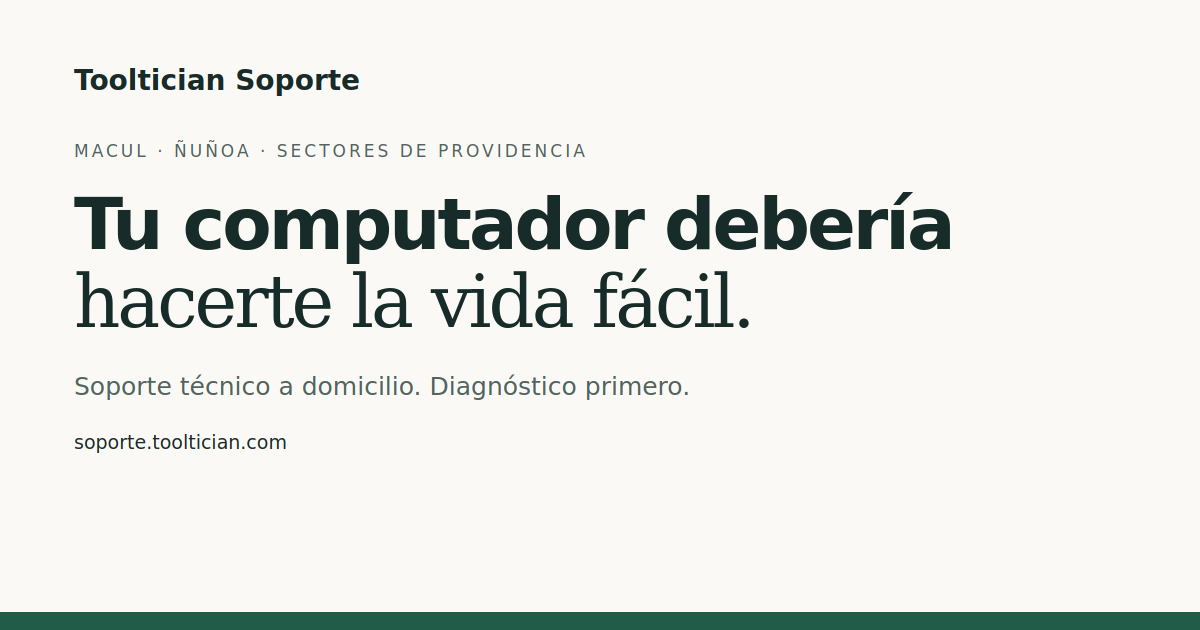
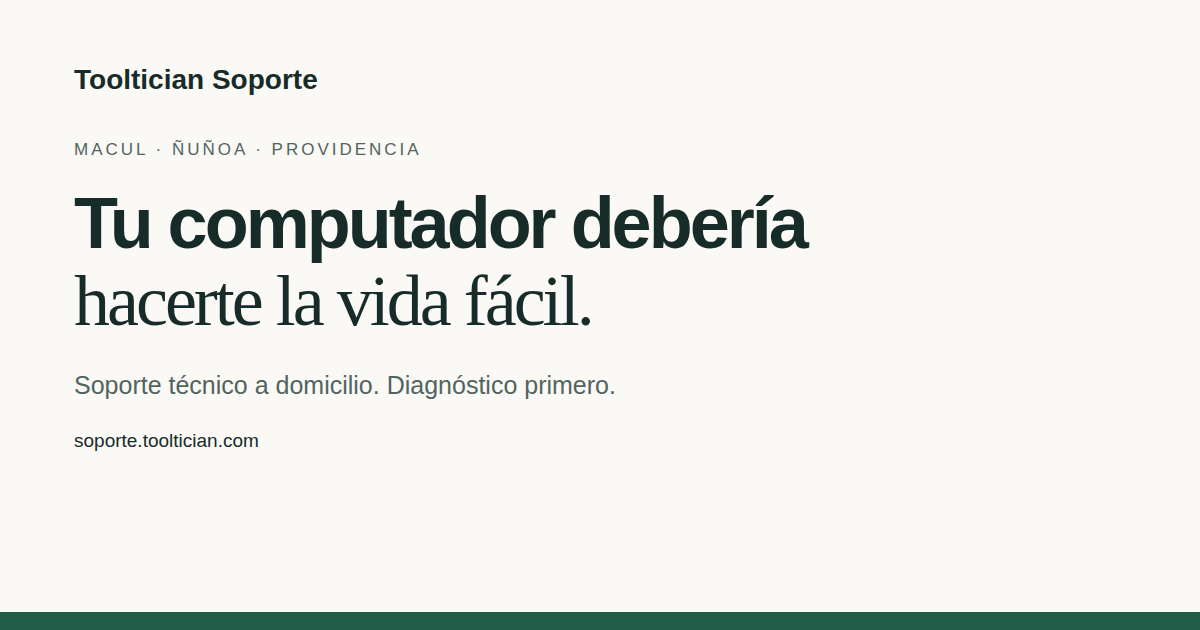
fix(support): address prelaunch quality findings
Triage of the Codacy analysis on PR #72. Of the 50 annotations GitHub
exposes, 31 (62%) are markdown prose-formatting notices and 0 are errors,
security or privacy findings. The real defects are fixed; the noise is
documented rather than churned.

Real defect, found by reading rather than by the linter: generate-og.mjs
rendered the share image as "NUNOA - SECTORES DE PROVIDENCIA". That image
ships as og:image on every page, and it contradicted the confirmed
coverage decision. config.ts has complete Providencia, unit.test.ts
asserts coverage is not sector-conditional, and dd1d1f6 deliberately
dropped the "sectors of Providencia" wording but never touched the script
or the PNG. Every social share advertised sector-limited coverage that
the live page does not offer. Text corrected and the image regenerated
(53,780 -> 46,829 bytes, still 1200x630).

Genuine hardening in analytics.ts: the gtag shim used a non-null
assertion on w.dataLayer to encode an invariant that was already
guaranteed one line above, and declared an unused rest parameter while
relying on arguments. It now holds a local reference and drops the dead
rest parameter. Semantics are unchanged; the release fixture asserts the
exact-once event counts and absence of PII in the queue, and still passes.

Style and latent-correctness cleanups: dataset dot notation and block
bodies for the two forEach callbacks in client.ts, template literals in
release-check.ts, and renaming the local `escape` helper, which shadowed
[…]

diff --git a/support/src/client.ts b/support/src/client.ts
@@ -15,17 +15,17 @@ let reference = "";
 let started = false;
 let completed = false;
 let clicked = false;
-document.querySelectorAll<HTMLAnchorElement>("[data-cta]").forEach((link) =>
+document.querySelectorAll<HTMLAnchorElement>("[data-cta]").forEach((link) => {
   link.addEventListener("click", () => {
-    const service = link.dataset["service"];
+    const service = link.dataset.service;
     const select = form?.elements.namedItem("service");
     if (service && select instanceof HTMLSelectElement) {
       select.value = service;
       if (result) result.hidden = true;
     }
-    track("support_cta_click", { location: link.dataset["cta"], service });
-  }),
-);
+    track("support_cta_click", { location: link.dataset.cta, service });
+  });
+});
 form?.addEventListener("focusin", () => {
   if (!started) {
     track("support_triage_start");
@@ -92,15 +92,14 @@ if ("IntersectionObserver" in window) {
     (entries) =>
       entries.forEach((entry) => {
         if (!entry.isIntersecting) return;
-        const name = (entry.target as HTMLElement).dataset[
-          "sectionEvent"
-        ] as EventName;
+        const name = (entry.target as HTMLElement).dataset
+          .sectionEvent as EventName;
         if (eventNames.includes(name)) track(name);
         observer.unobserve(entry.target);
       }),
     { threshold: 0.15 },
   );
-  document
-    .querySelectorAll("[data-section-event]")
-    .forEach((section) => observer.observe(section));
+  document.querySelectorAll("[data-section-event]").forEach((section) => {
+    observer.observe(section);
+  });
 }

diff --git a/support/src/lib/analytics.ts b/support/src/lib/analytics.ts
@@ -87,9 +87,12 @@ export function enableAnalytics() {
   started = true;
   source = attribution(location.search);
   const w = window as AnalyticsWindow;
-  w.dataLayer = w.dataLayer ?? [];
-  w.gtag = function (..._args: unknown[]) {
-    w.dataLayer!.push(arguments);
+  const dataLayer: unknown[] = (w.dataLayer = w.dataLayer ?? []);
+  // Canonical gtag shim: the arguments object is pushed as-is, which is what
+  // the Google snippet does. A local reference keeps the invariant explicit
+  // instead of asserting `w.dataLayer` is still set further down.
+  w.gtag = function () {
+    dataLayer.push(arguments);
   };
   w.gtag("js", new Date());
   w.gtag("config", business.analyticsId, {

diff --git a/support/release-check.ts b/support/release-check.ts
@@ -5,9 +5,9 @@ const hard = hardLaunchIssues();
 const soft = softLaunchIssues();
 if (business.photo && !existsSync(resolve(import.meta.dirname, business.photo)))
   hard.push(`El retrato debe existir en el repositorio: ${business.photo}`);
-if (soft.length) console.warn("POST-LANZAMIENTO (no bloquea)\n- " + soft.join("\n- "));
+if (soft.length) console.warn(`POST-LANZAMIENTO (no bloquea)\n- ${soft.join("\n- ")}`);
 if (hard.length) {
-  console.error("PUBLICACIÓN BLOQUEADA\n- " + hard.join("\n- "));
+  console.error(`PUBLICACIÓN BLOQUEADA\n- ${hard.join("\n- ")}`);
   process.exitCode = 1;
 } else
   console.log(

diff --git a/docs/support/TOOLTICIAN_SUPPORT_LAUNCH_HANDOFF.md b/docs/support/TOOLTICIAN_SUPPORT_LAUNCH_HANDOFF.md
@@ -1792,7 +1792,139 @@ interpretar
 
 ---
 
-## Fin del handoff
+# 29. Calidad — triage de Codacy
+
+> **Estado: DONE para los hallazgos reales.** El resto es ruido medido y
+> documentado. Único blocker sigue siendo el municipal.
+
+## 29.1 Qué es y qué no es el check
+
+El check se llama `Codacy Static Code Analysis` y su conclusión es
+`action_required`, no `failure`. Eso significa que Codacy terminó el análisis y
+está pidiendo una decisión, no que el análisis haya fallado. El título del run es:
+
+```text
+181 new issues (0 max.) of at least minor severity.
+```
+
+De las **50 anotaciones que GitHub expone** (GitHub las topa en 50), la
+distribución por severidad es:
+
+| Severidad | Cantidad |
+|---|---|
+| `error` | **0** |
+| `warning` | 13 |
+| `notice` | 37 |
+
+**No hay un solo hallazgo de severidad error, ni de seguridad, ni de privacidad.**
+El número 181 es aritmética de líneas nuevas, no 181 defectos: `support/` es
+íntegramente nuevo en este PR, así que todo su contenido cuenta como «nuevo».
+
+## 29.2 Clasificación de las 50 anotaciones
+
+| categoría | count | severidad | acción |
+|---|---:|---|---|
+| Markdown en `master-plan.md` | 21 | notice | no arreglar — ruido |
+| Markdown en `operations.md` | 6 | notice | no arreglar — ruido |
+| Markdown en `implementation.md` + `acquisition-drafts.md` | 4 | notice | no arreglar — ruido |
+| CSS whitespace en `styles.css` | 4 | notice | no arreglar — cosmético |
+| **`analytics.ts` non-null assertion + `arguments`/rest contradictorio** | **2** | warning | **corregido** |
+| **`client.ts` `forEach` con callback que retorna valor** | **2** | warning | **corregido** |
+| `client.ts` notación de punto | 3 | warning | corregido |
+| `release-check.ts` template literals | 2 | notice | corregido |
+| `generate-og.mjs` sombreado de `escape` | 1 | warning | corregido |
+| `analytics.ts` `document.cookie` | 2 | warning | **falso positivo — no tocar** |
+| `contact.ts` control chars en regex | 1 | warning | **falso positivo — no tocar** |
+| `contact.ts` `.replaceAll("-", "")` | 1 | warning | **falso positivo — no tocar** |
+| `generate-og.mjs` lookup object en `.replace()` | 1 | warning | **falso positivo — no tocar** |
+
+**62% de los hallazgos visibles es formato de prosa Markdown.**
+
+## 29.3 El hallazgo que Codacy no detectó
+
+Leyendo `generate-og.mjs` para el aviso de sombreado apareció un defecto real
+que el linter no marca:
+
+`support/generate-og.mjs` renderizaba la imagen de compartir con
+**`ÑUÑOA · SECTORES DE PROVIDENCIA`**. Esa imagen **se publica**: es
+`og:image` en todas las páginas, vía `Layout.astro`.
+
+Contradecía la decisión de cobertura confirmada: `config.ts` tiene Providencia
+completa, `unit.test.ts` afirma que la cobertura **no** es sectorial, y `dd1d1f6`
+quitó el texto «sectores de Providencia» a propósito — pero **nunca tocó
+`generate-og.mjs` ni el PNG**. Ese commit se lo saltó.
+
+Efecto: cada compartir en redes anunciaba Providencia sectorial, en desacuerdo
+con la página viva. **Corregido**: el texto ahora es `PROVIDENCIA` y la imagen se
+regeneró.
+
+## 29.4 Los cuatro falsos positivos, y por qué no se tocan
+
+1. **`analytics.ts` — «Direct assigning to document.cookie is not recommended»**
+   (2 ocurrencias). Es el código que **borra** las cookies `_ga*` al retirar el
+   consentimiento. Asignar `Max-Age=0` es la **única** forma de borrar una
+   cookie. El código ya cubre `Path=/` y `Domain=hostname`. «Recomendado» aquí
+   significaría no borrar, y eso rompería la garantía de privacidad.
+
+2. **`contact.ts:21` — «Unexpected control character in a regular expression»**.
+   El regex es `/[\u0000-\u001f\u007f]/g`: el **sanitizador** que elimina
+   caracteres de control del texto del cliente. Escrito con escapes, es correcto
+   y es una medida de seguridad. La regla apunta a literales de control.
+
+3. **`contact.ts:20` — «Non-serializable expression»** sobre
+   `.replaceAll("-", "")`. Es un primitivo de cadena. La regla apunta a regex y
+   funciones dentro de `.replace()`.
+
+4. **`generate-og.mjs:13` — «Non-serializable expression»**. Es una tabla de
+   búsqueda `{ "&": "&amp;", ... }[c]` dentro de un reemplazo de entidad HTML.
+   Es el escape correcto.
+
+## 29.5 Complejidad: los números no son deuda real
+
+Codacy reporta «complexity increasing» como suma, porque todo `support/` es
+nuevo. Al medir complejidad ciclomática real y longitud de función:
+
+| archivo | loc | ciclomático | función más larga | Codacy |
+|---|---:|---:|---:|---:|
+| `src/client.ts` | 106 | 30 | — (código de módulo) | 35 |
+| `src/config.ts` | 177 | 13 | 16 | 17 |
+| `src/lib/analytics.ts` | 124 | 12 | **30** | 22 |
+| `src/lib/contact.ts` | 66 | 16 | 16 | 20 |
+| `tests/browser.mjs` | 159 | 12 | — | 13 |
+| `tests/release-browser.mjs` | 137 | **5** | — | 13 |
+| `tests/server.mjs` | 68 | 13 | 1 | 13 |
+| `tests/unit.test.ts` | 332 | 14 | 3 | 31 |
+
+La función más larga de todo el código de producción tiene **30 líneas**.
+`config.ts` es 99% datos declarativos. `release-browser.mjs` tiene complejidad 5
+en 137 líneas porque es una secuencia lineal de aserciones. Los archivos de tests
+tienen complejidad aditiva por naturaleza, y esa complejidad **no es riesgo de
+defecto**.
+
+**No se refactorizó nada para subir una métrica.** Fragmentar funciones simples
+sería degradar legibilidad a cambio de nada.
+
+## 29.6 Configuración de Codacy
+
+Se añadió `.codacy.yml` con **una sola** exclusión, que acota `remark-lint` a los
+cuatro archivos que efectivamente produjeron ruido. No excluye ningún archivo de
+código, no baja severidades y no desactiva analizadores. `support/` sigue
+analizándose por completo. Justificación completa dentro del propio archivo.
+
+Pendiente de decisión humana: según la documentación de Codacy, **Codacy Cloud
+lee `.codacy.yml` desde la rama por defecto** (`master`). Este PR apunta a
+`master`, así que la config puede no tener efecto hasta que se integre.
+
+## 29.7 Ruido aceptado, no suprimido
+
+4 avisos de stylelint en `support/src/styles.css` («expected empty line before
+rule»). El archivo es compacto e internamente consistente; insertar líneas en
+blanco selectivamente lo haría **menos** consistente. Cosmético, sin señal de
+defecto, y se deja visible a propósito.
+
+---
+
+# 30. Fin del handoff
 
 Actualizar este documento en cada cambio material de:
 
